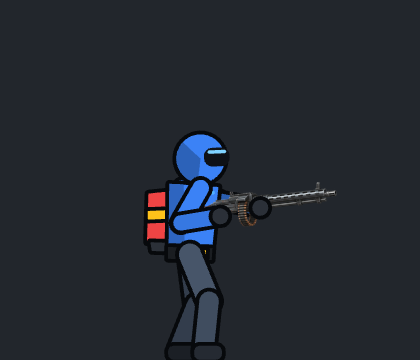
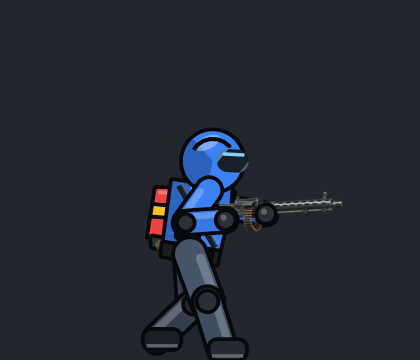
docs: shots and fighter polish in the notes and changelog

Changed region(s): [[0.3095, 0.3361, 0.8357, 1.0]]

diff --git a/src/components/menu/patchNotes.ts b/src/components/menu/patchNotes.ts
@@ -24,6 +24,7 @@ export const PATCH_NOTES: Record<Language, PatchNote[]> = {
     en: [
         { version: '0.4.0', date: null, comparisons: [
             { caption: 'The new fighter', ...FIGHTER },
+            { caption: 'Shots and explosions', ...shots('shots') },
             { caption: 'Standard map: a space station', ...STATION },
             { caption: 'Tunnels: an asteroid mine', ...MINE },
             { caption: 'Hunger Games: a show arena', ...ARENA },
@@ -32,6 +33,9 @@ export const PATCH_NOTES: Record<Language, PatchNote[]> = {
             'Tunnels became an asteroid mine (timber supports, strings of bulbs, ore carts, glowing veins) and Hunger Games got a show arena with stands, spotlights and big screens',
             'New fighter: shoulders, knees and elbows, both hands on the weapon, steps in time with the run, recoil, a helmet that looks where you aim',
             'Body parts fly apart in their own colors after a death',
+            'Shots and hits look the part: glowing bullet trails, a plasma orb, a rocket with smoke, a spinning grenade, sparks and scorch marks on walls and floors, blood and a flash on a fighter that gets hit',
+            "Bigger explosions with a fireball, shockwave, embers and smoke; a warm flash of light on the fighter's hands when firing",
+            'A sturdier fighter: larger head, chest and boots, thicker arms and legs, a shiny visor, pads and a strap, dust under the feet when running and landing',
             'New look for the menu, character setup and HUD',
             'Pick a mode and see how it plays, with its key rules',
             'Infiltration preview shows the whole raid: grab the intel, bring it to extraction',
@@ -78,6 +82,7 @@ export const PATCH_NOTES: Record<Language, PatchNote[]> = {
     ru: [
         { version: '0.4.0', date: null, comparisons: [
             { caption: 'Новый боец', ...FIGHTER },
+            { caption: 'Выстрелы и взрывы', ...shots('shots') },
             { caption: 'Стандартная карта: космическая станция', ...STATION },
             { caption: 'Тоннели: шахта на астероиде', ...MINE },
             { caption: 'Голодные игры: шоу-арена', ...ARENA },
@@ -86,6 +91,9 @@ export const PATCH_NOTES: Record<Language, PatchNote[]> = {
             'Тоннели стали шахтой на астероиде (деревянная крепь, гирлянды лампочек, вагонетки, светящаяся руда), а Голодные игры — шоу-ареной с трибунами, прожекторами и большими экранами',
             'Новый боец: плечи, колени и локти, оружие в обеих руках, шаг в такт бегу, отдача, шлем смотрит туда, куда целитесь',
             'После смерти части тела разлетаются в своих цветах',
+            'Выстрелы и попадания выглядят как надо: светящиеся следы пуль, плазменный шар, ракета с дымом, вращающаяся граната, искры и подпалины на стенах и полу, кровь и вспышка на бойце, в которого попали',
+            'Взрывы стали ярче: огненный шар, ударная волна, угли и дым; при стрельбе на руках бойца вспыхивает тёплый свет',
+            'Боец стал плотнее: крупнее голова, грудь и ботинки, толще руки и ноги, блик на визоре, наколенники, налокотники и ремень, пыль под ногами при беге и приземлении',
             'Новый вид меню, экрана персонажа и интерфейса в бою',
             'Выберите режим и посмотрите, как он играется, с главными правилами',
             'Превью «Проникновения» показывает весь рейд: схватить данные и донести до эвакуации',

diff --git a/docs/plans/2026-11-02-visual-polish-spec.md b/docs/plans/2026-11-02-visual-polish-spec.md
@@ -1,0 +1,255 @@
+# Projectiles, Hits and Fighter — Visual Polish Spec
+
+Status: implemented 2026-11-02
+
+## Problem
+
+The fighter got a jointed rig (0.4.0), but everything that flies and explodes is still
+placeholder art: every projectile is a 4 px filled circle in the weapon's colour (rocket
+and grenade included), sparks and smoke are filled squares, the muzzle flash is a yellow
+disc, the jetpack flame two triangles. The fighter itself is flat: one fill per part plus
+an outline, no highlights, no small gear. Side by side with the new map art it looks
+unfinished.
+
+Decided 2026-11-02 from animated mockups (`.superpowers/brainstorm/*/content/visuals.html`):
+
+- Projectiles: option A, "tracers and light".
+- Fighter: option A "volume and light" **and** option B "bigger silhouette and liveliness".
+
+## Goals
+
+1. Every projectile reads as what it is at game scale and speed: a tracer, a pellet, a
+   plasma orb, a rocket with exhaust, a spinning grenade, a rail beam.
+2. Hits and explosions have weight: flash, sparks that fall, smoke that rises, scorch marks.
+3. The fighter has volume (highlights, visor reflection, straps, pads), a slightly bigger
+   silhouette that reads from far away, and small life: landing squash, dust under the
+   feet, shell casings, head bob, a flash when hit.
+4. Identical look offline and online. The simulation does not change; all of this is
+   display code driven by state and effect events (see `effects.ts`).
+5. Runs at 120 Hz with 12 fighters and a few dozen projectiles without new per-frame
+   allocations in the steady state.
+
+## Non-goals
+
+- No gameplay change: hitboxes, speeds, damage, fire rates, projectile life stay as they are.
+- No new image files; everything is drawn by code (weapon pictures stay as they are).
+- Map scenes are not touched.
+- The one-off "black world" render crash seen on 2026-11-01 is a separate task.
+
+## Anti-goals (would make this a failure even if it "works")
+
+- A plain filled dot left anywhere in the projectile set.
+- Glow that hides fighters: additive effects must stay small (glow radius ≤ 34 px for a
+  muzzle flash, ≤ 46 px for a fireball) and short-lived (flash ≤ 0.12 s).
+- The fighter's drawing growing past its hitbox by more than 6 px on any side, so that a
+  shot which visibly hits never misses. Hitbox: 30 × 72 px around `pos` (centre-x, feet-y).
+- Frame-time regressions: the F3 overlay must still show ~120 physics ticks/s and the
+  display's refresh rate for frames with 12 fighters firing.
+
+## Constraints
+
+- Pixi v8 (8.14). `Graphics` are pooled already (`renderer.ts`); `blendMode = 'add'` is
+  available on any display object (used by `stationLights.ts`). Soft glows should be
+  **baked canvas textures** (`render/scene/canvasKit.ts`, `bakedTextures.ts`) on sprites,
+  not per-frame gradient fills.
+- Snapshots carry a projectile whole: `id, type, pos, vel, life` (ticks left, counted down
+  from `PROJECTILE_MAX_LIFE`, 60 for grenades) — no rotation. Spin and pulsing are derived
+  from the age `maxLife − life`, so every client agrees without memory; trails (ghost orbs)
+  need remembered positions, kept in a per-id memory like `FighterAnimator` does and
+  forgotten when the id disappears.
+- Cosmetic state lives in `GameState.particles` / `decals` (shared types in `types.ts`),
+  moved by `systems/particles.ts`; events become particles in `effects.ts applyEffectEvent`.
+  New particle kinds are added to `Particle.type` there.
+- The simulation announces cosmetics through `EFFECT` events (`effects.ts`), which the
+  server already forwards to clients. Today it emits `spark` (colour, count) on *every*
+  projectile and rail hit — wall or fighter alike — and on chainsaw swings; `explosion`
+  for rockets/grenades; `blood` only for chainsaw hits; `shell` on machine-gun, shotgun,
+  rocket and grenade shots (at the aim origin); `respawn`. Rail shots create `state.beams`.
+  Rocket smoke comes from `projectileTrail` (50 % chance per tick); jetpack trail from
+  `jetpackTrail`.
+- **Change to the announcements (my call, see Decisions 5):** where the simulation already
+  knows what was hit (`physics.ts` projectile loop, `combat.ts` rail shot), it emits
+  `blood` at the impact point for a fighter and `spark` for a wall, instead of `spark` for
+  both. No gameplay or protocol change: same event type, same transport.
+- Files ≤ 200 lines, one responsibility each, named exports (CLAUDE.md). `renderer.ts` is
+  already far over that limit: new work goes into new modules and `renderer.ts` only
+  *calls* them (its projectile/particle/beam blocks are replaced by calls, not extended).
+- Colours stay the weapon colours in `WEAPONS_DATA` so pickups, HUD and effects agree.
+
+## Design
+
+### 1. Projectiles (per weapon)
+
+Sizes are world px at game scale. "Strip" = a baked 64 × 8 gradient texture (transparent
+tail → opaque bright head), drawn as a sprite rotated along the velocity, blend `add`.
+"Glow" = a baked radial gradient (white centre → transparent) tinted per use, blend `add`.
+
+| Weapon | Look |
+|---|---|
+| Machine gun | strip 24 × 3, yellow → white head; glow r 9 at the head |
+| Shotgun | 6 strips 10 × 2.2, orange → white; one grey muzzle puff (r 5 → 13, 0.35 s) on the shot |
+| Plasma | white core r 4, blue glow r 14 pulsing ±15 % at ~4.5 Hz; three ghost orbs at remembered positions (every 2nd of the last 7), fading |
+| Rocket | drawn body: grey capsule 15 × 5, red nose cone, two grey fins, a highlight line; exhaust cone 10–16 px flickering (white → orange → transparent) with a glow r 14; the existing smoke puffs keep their rate but get the new puff look (§3) |
+| Grenade | dark-green ball r 4.5, lime band, highlight; spins 0.25 rad per tick from first-seen; sim gravity unchanged |
+| Railgun | beam from `state.beams`: white core 2.5 px, light-blue 7 px, blue glow 18 px (`add`), all fading with the beam's life; impact burst as in §2 in the rail colour plus white |
+| Chainsaw | no projectile; its `spark` events become streak sparks (§2) |
+
+### 2. Hits
+
+- **Projectile hits a wall** (`spark` event): a glow flash r 16 in the weapon colour
+  (0.12 s); 8 streak sparks (lines along their velocity, length ∝ speed, additive,
+  yellow-white, gravity, 0.3–0.6 s); a scorch mark (dark circle r 2–3.5, alpha 0.6 fading
+  over ~4 s). The spark point is up to one tick of travel *inside* the wall (the sim uses
+  `prevPos` only for explosions), so the mark is placed at the spark point projected onto
+  the nearest edge of the platform that contains it; no containing platform → no mark.
+  Marks are drawn on a new layer between the platform art and the fighters (the existing
+  `decalLayer` sits under the platform art, so a mark written there would be hidden). The
+  existing decals (death pools) stay where and how they are.
+- **Fighter hit** (`blood` event, now emitted at the impact point — see Constraints):
+  droplets (circles r 1.5–2.5, red, gravity, 0.4–0.7 s) instead of squares, and a **hit
+  flash**: for 80 ms after the fighter's health drops, its look colours are lightened ×1.7
+  (clamped) — detected client-side from the health value.
+- **Explosion** (`explosion` event): white flash disc r 40 for 80 ms; fireball (glow
+  sprite, orange, r 12 → 46 over 0.55 s, fading); shockwave ring (stroke, r 10 → 80 over
+  0.5 s, alpha 0.6 → 0); 14 embers (streak sparks with gravity, 0.5–0.8 s); 6 smoke puffs
+  rising and growing (0.9 s); scorch decal r 18. Screen shake stays as it is.
+- **Death**: ragdoll unchanged; its blood burst uses droplets.
+
+### 3. Particles (replacing the squares)
+
+| Kind | Look | Motion |
+|---|---|---|
+| spark / ember | streak: line from the position back along the velocity, additive | gravity |
+| fire (jetpack trail) | small additive ember dot | as today |
+| smoke / puff | soft circle, alpha 0.35 → 0, grows ×1 → ×2.6 | drifts up slowly |
+| blood | droplet circle, non-additive | gravity, stops on platforms |
+| shell | brass rectangle 4 × 2 with a highlight line, rotating | bounce as today |
+| dust (new) | grey-beige puff r 2–3.5, growing ×1.5, alpha 0.45 → 0, 0.6 s | drifts backwards |
+
+If more than 500 particles are alive, smoke and dust are not spawned (graceful degrade).
+
+### 4. Muzzle flash and light
+
+A 4-point star (length 7 × k) with a white ellipse core at the muzzle, plus a warm glow
+sprite r 22 (×1.5 for shotgun, rocket, rail: 33, within the anti-goal's 34) that overlaps
+the fighter — the "light on the fighter". Shipped rule: the strength `k` is a linear fade
+`1 − since / 120 ms` over the first 120 ms of a shot (recoil itself keeps its curve), with
+the light centred 10 rig units behind the muzzle so it overlaps the hands. (Today the flash is drawn only
+while k > 0.55, i.e. ~21 ms — that is why it is barely seen; the new one fades over 120 ms.)
+Blend `add`. Applies to every fighter, including remote players and bots (recoil is derived
+from `lastFired` already; for remote players it leads the interpolated body by ~100 ms, as
+today — accepted, it is a flash).
+
+### 5. Fighter: volume (A)
+
+Same joint lengths and `RIG_SCALE`. On top of today's parts:
+
+- Limbs: a highlight stroke along the upper side (white 22 %, width 30 % of the limb,
+  inset 15 % from both ends). Plates: a top-edge highlight line (white 28 %).
+- Torso: chest-plate highlight (white 16 %) on the upper-front quarter; a diagonal strap
+  from the back shoulder to the front hip (belt colour, 1.8 wide, thin highlight); a dark
+  pouch on the lower back of the torso.
+- Knee pads (r 2.6 front / 2.4 back) and elbow pad (r 2.0) in the glove colour; gloves get
+  a small highlight dot; boots get a sole line.
+- Head: specular ellipse (white 35 %) upper-left; visor gets a gradient (sky-blue 55 % →
+  8 % → white 25 %) over the dark visor; the glint line stays.
+- Jetpack: nozzle dot (orange, bright while flying); the flame gets a white inner tongue
+  and a glow sprite r 16–20 (`add`).
+- Robot, beast and alien skins keep their features (antenna, ears, tails, accent band);
+  highlights apply the same way.
+
+### 6. Fighter: silhouette and liveliness (B)
+
+- Proportions: head radius 7 → 8.6 (robot head box scaled the same ×1.23); torso width
+  ×1.25; limb thickness ×1.35; boots 10 × 5; a shoulder pad on the front shoulder; a helmet
+  ridge line. Resulting width ≈ 22 px against the 30 px hitbox (anti-goal respected).
+  Crouched, the hitbox is 30 × 45: the crouch pose must keep the bigger head inside the
+  6 px margin too (lower the crouch head position if it does not).
+- Landing squash: scale (1 + 0.18 s, 1 − 0.16 s) anchored at the feet for 180 ms, `s`
+  easing 1 → 0. The landing is detected from the **drawn position** (feet were moving down
+  faster than 3 px/frame on the previous frames and have now stopped), not from
+  `isGrounded`: remote fighters are drawn ~100 ms in the past (`interpolation.ts` rewrites
+  only `pos`), so a flag-based squash would fire while the body is still in the air. Same
+  rule offline, so both look identical (goal 4).
+- Dust: one puff at the front foot on each foot plant while running (run phase crossing
+  the plant point); six puffs on landing (same detection as the squash). At most 12 live
+  dust puffs per fighter.
+- Shell casings: the sim already emits one per machine-gun, shotgun, rocket and grenade
+  shot (plasma, rail and chainsaw have none — correct); they get the §3 look.
+- Head bob while running: ±0.05 rad at twice the run phase.
+- Hit flash (§2).
+- Ragdoll parts (`ragdollView.ts`) take the same proportions and highlights so a body
+  flies apart looking like the fighter it was.
+
+### 7. Patch notes
+
+- "What's new" gets a second before/after pair, "Shots and explosions" (dots → tracers),
+  and the fighter pair's "after" picture is retaken with the new look.
+- EN/RU note lines and a CHANGELOG entry under 0.4.0.
+
+## Files (proposed; the builder may split differently, under 200 lines each)
+
+| File | Responsibility |
+|---|---|
+| `src/game/render/effects/glowTextures.ts` | bake and cache the strip and radial-glow textures. They live for the whole session: **not** through `bakedTexture()`'s scene registry, which `releaseBakedTextures()` destroys on every map change |
+| `src/game/render/effects/marksLayer.ts` | scorch marks: placement on the platform edge, fade, cap; its layer is added in `GameCanvas.tsx` between the platform art and `gameLayer` |
+| `src/game/render/projectiles/projectileView.ts` | one display object per projectile id, memory (first seen, last positions), forget on removal |
+| `src/game/render/projectiles/projectileLooks.ts` | per-weapon drawing (§1) |
+| `src/game/render/projectiles/beamView.ts` | rail beam (§1) |
+| `src/game/render/effects/particleView.ts` | drawing per particle kind (§3) |
+| `src/game/render/effects/explosionView.ts` | flash / fireball / ring timeline (§2) if not done as particles |
+| `src/game/render/fighter/muzzleFlash.ts` | star, core and light (§4) |
+| `src/game/render/fighter/fighterParts.ts` (+ split) | proportions and highlights (§5, §6) |
+| `src/game/render/fighter/fighterAnimator.ts` | landing, head bob, hit flash, dust events |
+| `src/game/render/fighter/fighterDust.ts` | dust spawning with the per-fighter cap |
+| `src/game/systems/effects.ts`, `systems/particles.ts` | new particle kinds, compositions, motion |
+| `src/game/systems/physics.ts`, `systems/combat.ts` | emit `blood` for a fighter hit and `spark` for a wall hit (projectiles and rail); nothing else changes |
+| `src/game/systems/renderer.ts` | replace its projectile / particle / beam blocks with calls |
+| `src/game/render/ragdollView.ts` | match the new proportions |
+
+## Testing
+
+- Unit: `applyEffectEvent` compositions (an explosion yields the expected kinds and counts;
+  a blood event yields droplets); particle motion for the new kinds (gravity on sparks and
+  droplets, growth on smoke, dust cap); animator events (landing detected only after a real
+  fall, head bob only while running, hit flash window 80 ms); projectile memory is forgotten
+  when an id disappears (no leak over a 60 s bots-only run — reuse `src/test/botBench.ts`).
+- Visual: Playwright screenshots of each weapon mid-flight and at impact, and of the
+  fighter running / flying / landing, compared by eye against the mockup; the pictures go
+  into `public/assets/patch/`.
+- Performance: F3 overlay during a 3-bot Deathmatch with a rocket fight: ≥ 115 ticks/s and
+  frame rate at the display's refresh.
+
+## Decisions
+
+1. Projectiles: tracers and light (2026-11-02).
+2. Fighter: volume and light + bigger silhouette and liveliness, both (2026-11-02).
+3. Everything stays code-drawn; glows are baked textures on sprites (my call: cheapest at
+   120 Hz, and the scene already bakes its art the same way).
+4. Cosmetics stay client-side; gameplay and the network protocol do not change (my call:
+   keeps offline and online identical).
+5. The simulation's cosmetic announcements may be refined through the existing `EFFECT`
+   channel: `blood` for a fighter hit, `spark` for a wall hit (my call, after the builder's
+   check: the client cannot tell the two apart otherwise, and the sim already knows).
+6. Scorch marks get their own layer above the platform art; old decals are left alone (my
+   call: the alternative, lifting the whole decal layer, would also reveal today's hidden
+   death pools — a change nobody asked for).
+7. Landing squash and dust are detected from the drawn position, not `isGrounded` (my
+   call: remote fighters are drawn 100 ms in the past; this keeps offline and online the
+   same without touching the net code).
+8. Muzzle glow capped at 33 px and the flash fades over ~100 ms (my call: resolves the
+   conflict between §4 and the anti-goal, and fixes the ~21 ms flash that nobody sees).
+
+## Builder's check (2026-11-02)
+
+A fresh reviewer read this document against the code. Findings and how they were settled:
+the sim never emitted `blood` for gun hits (→ Decision 5); muzzle glow size contradicted
+the anti-goal (→ 8); the decal layer is hidden under the platform art and wall-hit points
+lie inside the wall (→ 6, §2); remote fighters' flags lead their drawn body (→ 7, §4);
+projectile `life` is in snapshots, so age needs no memory (→ Constraints); shells are not
+emitted for plasma/rail/chainsaw (→ §6); the crouch hitbox is 30 × 45 (→ §6); glow
+textures must not go through the scene's baked-texture registry (→ Files).
+
+## Open questions
+
+None blocking.

diff --git a/CHANGELOG.md b/CHANGELOG.md
@@ -20,6 +20,19 @@
 - Bodies break into parts in their own colors (any custom color, not only the four team colors)
 - Before/after pictures in the menu's "What's new" panel
 
+### 🎇 Shots, Hits and Fighter Polish
+- Every weapon's shot has its own look: machine-gun and shotgun tracers with a glow, a pulsing plasma orb with a fading ghost trail, a drawn rocket with a flickering exhaust and smoke behind it, a spinning grenade, a three-layer rail beam
+- Impacts: a flash and falling sparks where a shot meets a wall, plus a scorch mark on walls and floors that fades in about 4 seconds
+- Explosions: flash, fireball, shockwave ring, embers and rising smoke
+- Fighters that get hit: blood droplets and a white flash
+- Muzzle flash: a star with a warm light on the fighter's hands, fading over about 120 ms (it used to be visible for about 20 ms)
+- Fighter volume: highlights on limbs, torso and head, a visor reflection, a strap, a pouch, knee and elbow pads, a glow behind the jetpack flame
+- Fighter silhouette: bigger head, chest and boots, thicker limbs, a shoulder pad and a helmet ridge; the drawing stays within 6 px of the hitbox in every pose, checked by a test
+- Fighter liveliness: landing squash with dust, dust under the feet while running, head bob; ragdoll parts match the new proportions
+- The simulation now announces `blood` for a fighter hit and `spark` for a wall hit (it announced `spark` for both); same event channel, no gameplay or protocol change, so online players see the same effects
+- Particles have their own motion per kind (streak sparks, droplets, soft smoke, shells, dust) and a budget of 500 live ones: above it, smoke and dust are not spawned
+- Before/after pair "Shots and explosions" in "What's new"; the fighter picture is retaken
+
 ### 🎨 New Interface
 - **Main menu** redesigned: pick a mode and watch a short animated preview of how it plays, with its three key rules (Infiltration shows the whole raid: grab the intel, bring it to extraction)
 - **What's new** panel with the full release history
